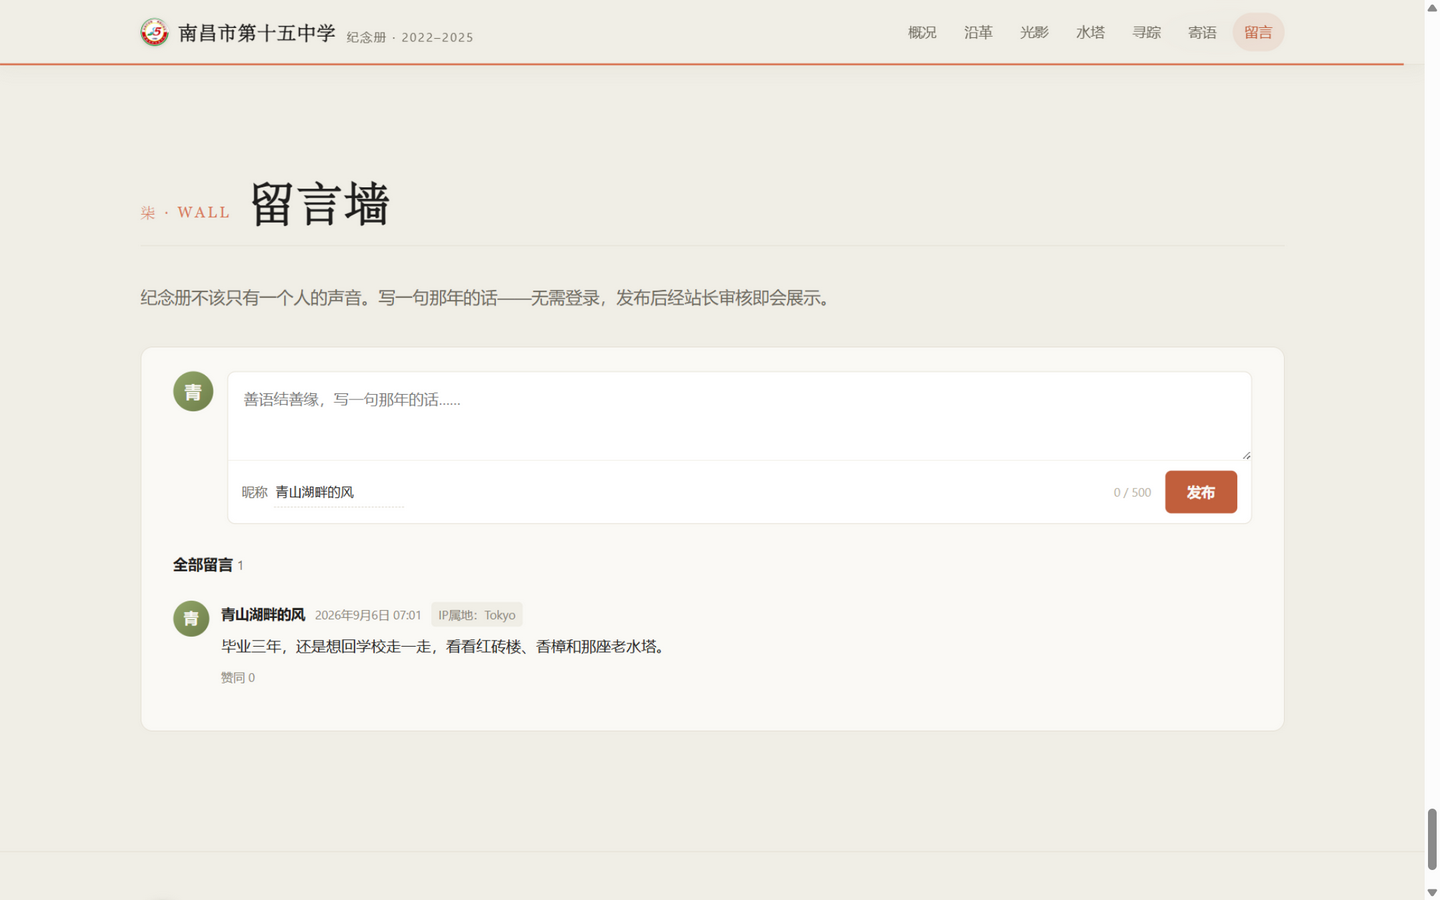
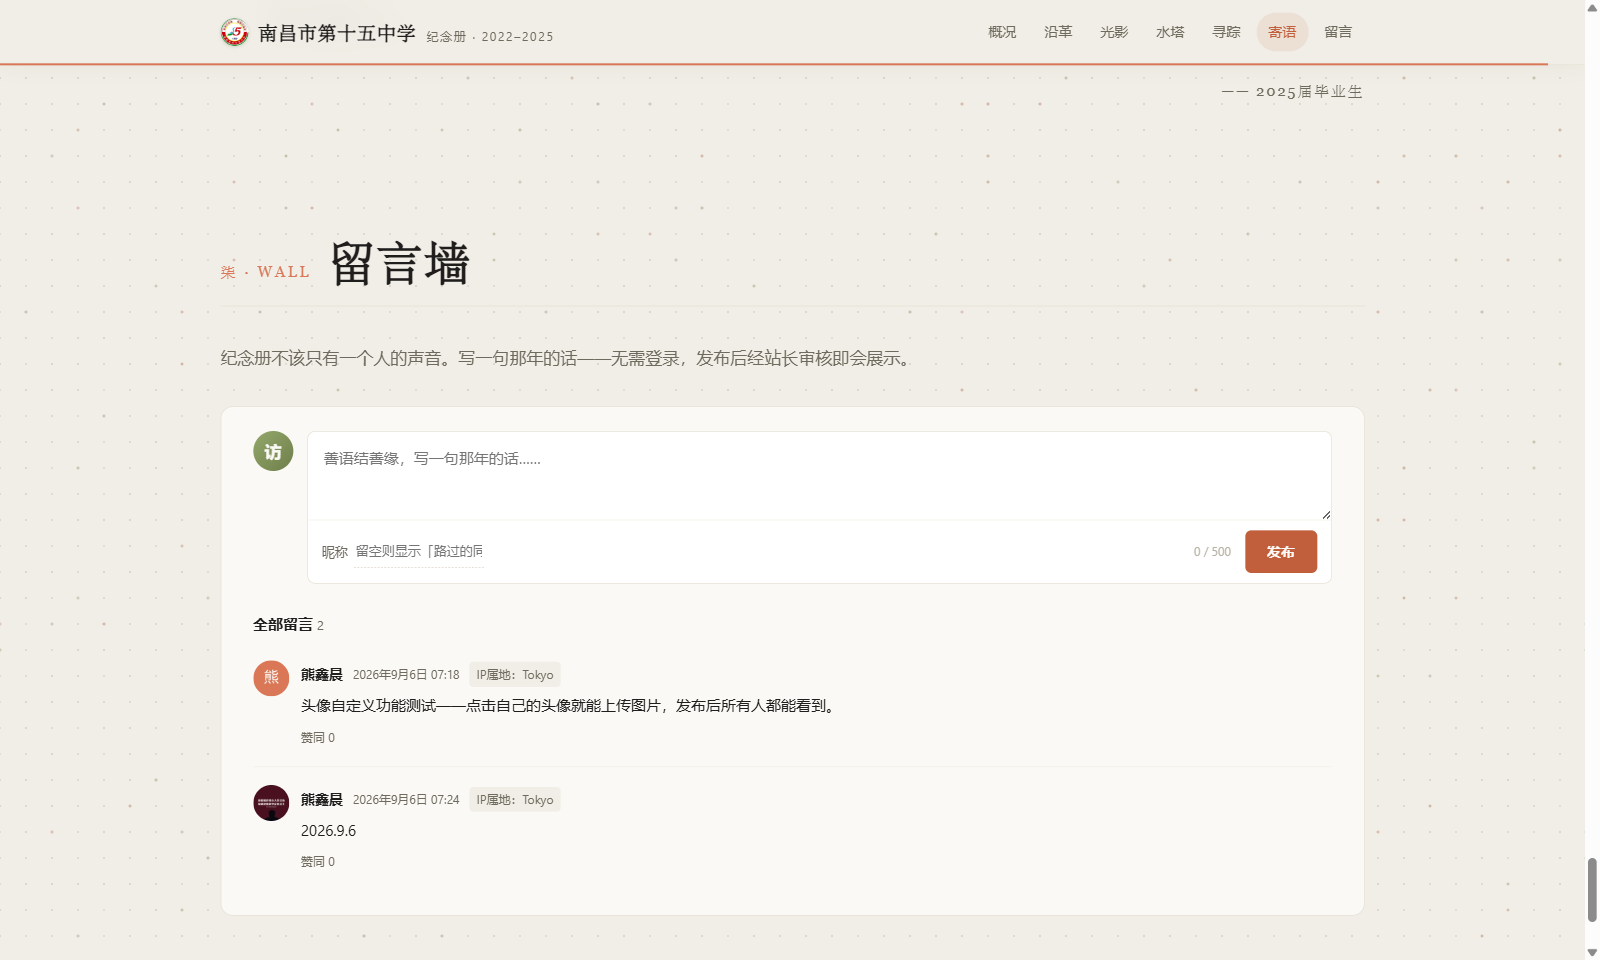
update: fix: 🐛 回到顶部锚点修复（#topbar fixed 定位不可滚，改 #top 锚点）+ 点阵纸纹内容优先淡入（load 后起画）+ 移动端顶栏 brand flex:none 防压缩溢出 + 移动端点阵降密 34px + 触屏隆起反馈 + tour 圆点样式修复（CSS 选择器失配）+ 灯箱键盘与漫游隔离 + footer z-index；资源版本 20260907

diff --git a/assets/main.js b/assets/main.js
@@ -205,7 +205,9 @@
 
   /* ---------- 点阵纸纹（全站背景，方案二 · Ledger Dots） ----------
      研究来源：React Bits DotField（点阵+光标隆起+速度追踪）+ Uiverse 呼吸律
-     隐喻：方格稿纸底纹，光标掠过处如抚过纸面；8% 赤陶/橄榄"注记点" */
+     隐喻：方格稿纸底纹，光标掠过处如抚过纸面；8% 赤陶/橄榄"注记点"
+     时序：内容先呈现——页面 load（或 2.2s 兜底）后画布才淡入起画；
+     手机端：间距放宽降密度，resize 仅在宽度变化时重建（地址栏伸缩不重建） */
   (function () {
     if (reduceMotion) return;
     var cv = document.getElementById('dustCanvas');
@@ -214,23 +216,31 @@
     var DPR = Math.min(window.devicePixelRatio || 1, 2);
     var W = 0, H = 0;
 
-    var SPACING = 26;                 /* 点间距 26px：纸感宜疏 */
+    var MOBILE = function () {
+      return (window.matchMedia && window.matchMedia('(hover: none)').matches) || window.innerWidth < 640;
+    };
     var INK = '31,30,29', TERRA = '150,72,45', OLIVE = '96,112,66';
     var CURSOR_R = 280, CURSOR_F = .055;   /* 大半径小力度（律令 4） */
     var cols = 0, rows = 0, dots = [];
     var mouse = { x: -9999, y: -9999, px: -9999, py: -9999, speed: 0 };
+    var lastW = -1, lastS = 0;
 
     function size() {
       W = window.innerWidth; H = window.innerHeight;
       cv.width = Math.round(W * DPR); cv.height = Math.round(H * DPR);
       ctx.setTransform(DPR, 0, 0, DPR, 0, 0);
-      cols = Math.ceil(W / SPACING) + 1; rows = Math.ceil(H / SPACING) + 1;
+      var sp = MOBILE() ? 34 : 26;        /* 点间距：纸感宜疏，小屏更疏降密度 */
+      /* 行数多铺 160px 余量：手机地址栏收起视口变高时底部不留空带 */
+      var nCols = Math.ceil(W / sp) + 1, nRows = Math.ceil((H + 160) / sp) + 1;
+      if (W === lastW && sp === lastS) return;   /* 手机地址栏伸缩只改高度，不重建点阵 */
+      lastW = W; lastS = sp;
+      cols = nCols; rows = nRows;
       dots = [];
       for (var r = 0; r < rows; r++) {
         for (var c = 0; c < cols; c++) {
           var special = Math.random() < .08;   /* 注记点：方格稿纸上的墨点 */
           dots.push({
-            bx: c * SPACING, by: r * SPACING,
+            bx: c * sp, by: r * sp,
             r: special ? 1.4 : .9,
             c: special ? (Math.random() < .5 ? TERRA : OLIVE) : INK,
             base: special ? .34 : .15,
@@ -240,8 +250,6 @@
         }
       }
     }
-    size();
-    window.addEventListener('resize', size);
 
     window.addEventListener('mousemove', function (ev) {
       mouse.px = mouse.x; mouse.py = mouse.y;
@@ -250,6 +258,19 @@
       var sp = Math.sqrt(dx * dx + dy * dy);
       mouse.speed = mouse.speed * .8 + sp * .2;   /* 快抚幅度更大 */
     }, { passive: true });
+    /* 触屏同步：手指划过同样隆起，抬手复位 */
+    window.addEventListener('touchmove', function (ev) {
+      var t = ev.touches[0];
+      if (!t) return;
+      mouse.px = mouse.x; mouse.py = mouse.y;
+      mouse.x = t.clientX; mouse.y = t.clientY;
+      var dx = t.clientX - mouse.px, dy = t.clientY - mouse.py;
+      var sp = Math.sqrt(dx * dx + dy * dy);
+      mouse.speed = mouse.speed * .8 + sp * .2;
+    }, { passive: true });
+    function touchReset() { mouse.x = -9999; mouse.y = -9999; mouse.speed = 0; }
+    window.addEventListener('touchend', touchReset, { passive: true });
+    window.addEventListener('touchcancel', touchReset, { passive: true });
     document.addEventListener('mouseleave', function () { mouse.x = -9999; mouse.y = -9999; mouse.speed = 0; });
 
     var raf3 = null, t0 = null;
@@ -277,10 +298,36 @@
       mouse.speed *= .92;                        /* 速度自然衰减 */
       raf3 = requestAnimationFrame(frame);
     }
-    function start() { if (!raf3) raf3 = requestAnimationFrame(frame); }
+    function start() {
+      if (raf3) return;
+      size();
+      raf3 = requestAnimationFrame(frame);
+      cv.classList.add('on');                    /* 1.2s CSS 淡入 */
+    }
     function stop() { if (raf3) { cancelAnimationFrame(raf3); raf3 = null; } }
-    document.addEventListener('visibilitychange', function () { document.hidden ? stop() : start(); });
-    start();
+
+    /* 内容优先：load 后再起画（load 卡住则 DOMContentLoaded+2.2s 兜底） */
+    var begun = false;
+    function begin() {
+      if (begun) return;
+      begun = true;
+      setTimeout(start, 250);                    /* 缓一拍，让首屏内容先落定 */
+    }
+    if (document.readyState === 'complete') begin();
+    else {
+      window.addEventListener('load', begin);
+      var kicked = false;
+      function domKick() {
+        if (kicked) return;
+        kicked = true;
+        setTimeout(begin, 2200);
+      }
+      if (document.readyState === 'interactive') domKick();
+      else document.addEventListener('DOMContentLoaded', domKick);
+    }
+
+    window.addEventListener('resize', function () { if (raf3) size(); });
+    document.addEventListener('visibilitychange', function () { document.hidden ? stop() : (begun && start()); });
   })();
 
   /* ---------- 灯箱 ---------- */

diff --git a/assets/style.css b/assets/style.css
@@ -61,7 +61,7 @@ p{text-wrap:pretty}
   max-width:1200px;margin:0 auto;padding:0 28px;
   height:64px;display:flex;align-items:center;justify-content:space-between;gap:16px;
 }
-.brand{display:flex;align-items:center;gap:10px;white-space:nowrap}
+.brand{display:flex;align-items:center;gap:10px;white-space:nowrap;flex:none}
 .brand img{width:28px;height:28px;border-radius:50%;box-shadow:0 1px 4px rgba(31,30,29,.18)}
 .brand b{font-family:var(--serif);font-weight:700;font-size:19px;letter-spacing:.04em}
 .brand span{font-size:12px;color:var(--muted);letter-spacing:.14em;align-self:end;padding-bottom:2px}
@@ -140,7 +140,10 @@ nav.toc a.active{color:var(--terra-deep);background:rgba(217,119,87,.12)}
 /* ============ Oryzo 式电影感层 ============ */
 /* 点阵纸纹：z-1 垫在内容之下、米白底之上，像稿纸底纹；内容主体提到 z-2 盖住卡片区点阵 */
 main{position:relative;z-index:2}
-#dustCanvas{position:fixed;inset:0;pointer-events:none;z-index:1}
+/* #top：页顶零高锚点（回到顶部用），抵消 scroll-padding 的 76px */
+#top{position:absolute;top:0;left:0;width:0;height:0}
+#dustCanvas{position:fixed;inset:0;pointer-events:none;z-index:1;opacity:0;transition:opacity 1.2s ease .15s}
+#dustCanvas.on{opacity:1}
 @media (prefers-reduced-motion: reduce){#dustCanvas{display:none}}
 
 /* 1) 章节大标题渐显上浮（惯性缓动，挂在现有 .reveal 上加深一层） */
@@ -309,7 +312,7 @@ section.block{max-width:1200px;margin:0 auto;padding:96px 28px 30px}
 .words .sign b{font-family:var(--serif);font-size:17px;color:var(--ink);letter-spacing:.08em}
 
 /* ============ 页脚 ============ */
-footer{border-top:1px solid var(--line);margin-top:90px}
+footer{border-top:1px solid var(--line);margin-top:90px;position:relative;z-index:2}
 .footer-inner{
   max-width:1200px;margin:0 auto;padding:48px 28px 60px;
   display:flex;justify-content:space-between;align-items:flex-end;gap:20px;flex-wrap:wrap;
@@ -393,8 +396,9 @@ body.lb-lock{overflow:hidden}
 .tour-viewer .arr:hover{background:rgba(193,95,60,.85);border-color:transparent}
 .tour-viewer .arr.prev{left:22px}.tour-viewer .arr.next{right:22px}
 .tour-dots{display:flex;gap:9px;justify-content:center;margin:16px 0 30px}
-.tour-dots i{width:7px;height:7px;border-radius:50%;background:#CFC8B8;cursor:pointer;transition:all .25s}
-.tour-dots i.on{background:var(--terra-deep);width:22px;border-radius:99px}
+.tour-dots button{appearance:none;border:none;padding:0;width:7px;height:7px;border-radius:50%;background:#CFC8B8;cursor:pointer;transition:all .25s}
+.tour-dots button:hover{background:#B9B2A0}
+.tour-dots button.on{background:var(--terra-deep);width:22px;border-radius:99px}
 
 .mm-head{display:flex;align-items:baseline;gap:12px;margin:4px 0 10px}
 .mm-head b{font-family:var(--serif);font-size:17px;color:var(--ink)}
@@ -489,7 +493,10 @@ body.lb-lock{overflow:hidden}
   .lb-hint{display:none}
 }
 @media (max-width:640px){
-  .topbar-inner{padding:0 18px}
+  .topbar-inner{padding:0 18px;gap:12px}
+  .brand{gap:8px}
+  .brand img{width:24px;height:24px}
+  .brand b{font-size:16px}
   .brand span{display:none}
   .hero{padding-top:120px}
   section.block{padding:72px 18px 20px}
@@ -501,6 +508,8 @@ body.lb-lock{overflow:hidden}
   .lb-stage{padding:0 10px}
   .lb-nav{width:44px;height:44px}
   .tour-viewer{height:380px}
+  .group-head{flex-wrap:wrap;row-gap:2px}
+  .group-head .g-note{flex:1 1 100%;text-align:left;margin-left:0}
   .tour-viewer .cap{left:18px;bottom:16px;right:18px}
   .tour-viewer .cap .t{font-size:21px}
   .tour-viewer .arr{width:42px;height:42px}

diff --git a/index.html b/index.html
@@ -17,8 +17,8 @@
 <meta name="twitter:card" content="summary_large_image">
 <link rel="icon" type="image/png" href="images/emblem-64.png">
 <link rel="apple-touch-icon" href="images/emblem-180.png">
-<link rel="stylesheet" href="maplibre/maplibre-gl.css?v=20260906c">
-<link rel="stylesheet" href="assets/style.css?v=20260906c">
+<link rel="stylesheet" href="maplibre/maplibre-gl.css?v=20260907">
+<link rel="stylesheet" href="assets/style.css?v=20260907">
 <link rel="preload" as="image" href="images/full/18-plaza-summer.jpg" fetchpriority="high">
 <script type="application/ld+json">
 {
@@ -54,10 +54,10 @@ window.addEventListener('DOMContentLoaded', function () {
     if (entries.some(function (e) { return e.isIntersecting; })) {
       io.disconnect();
       var s = document.createElement('script');
-      s.src = 'maplibre/maplibre-gl.js?v=20260906c';
+      s.src = 'maplibre/maplibre-gl.js?v=20260907';
       s.onload = function () {
         var m = document.createElement('script');
-        m.src = 'assets/map.js?v=20260906c';
+        m.src = 'assets/map.js?v=20260907';
         document.body.appendChild(m);
       };
       document.body.appendChild(s);
@@ -68,6 +68,7 @@ window.addEventListener('DOMContentLoaded', function () {
 </script>
 </head>
 <body>
+<span id="top" aria-hidden="true"></span>
 <a class="skip-link" href="#main">跳到正文</a>
 <canvas id="dustCanvas" aria-hidden="true"></canvas>
 
@@ -471,7 +472,7 @@ window.addEventListener('DOMContentLoaded', function () {
     <div class="right">
       <div class="f-coord">28.7208° N, 115.9322° E · 青山湖畔</div>
       <div>xxc2007.me · 2026</div>
-      <div><a href="#topbar">回到顶部 ↑</a></div>
+      <div><a href="#top">回到顶部 ↑</a></div>
     </div>
   </div>
 </footer>
@@ -498,8 +499,8 @@ window.addEventListener('DOMContentLoaded', function () {
   </div>
 </div>
 
-<script src="assets/main.js?v=20260906c" defer></script>
-<script src="assets/wall.js?v=20260906c" defer></script>
+<script src="assets/main.js?v=20260907" defer></script>
+<script src="assets/wall.js?v=20260907" defer></script>
 <!-- 定位图（map.js）由 head 内的惰性初始化器在滚动临近时按需加载 maplibre-gl.js -->
 </body>
 </html>

diff --git a/assets/map.js b/assets/map.js
@@ -69,6 +69,7 @@
   if (prevBtn) prevBtn.addEventListener('click', function () { go(cur - 1); });
   if (nextBtn) nextBtn.addEventListener('click', function () { go(cur + 1); });
   document.addEventListener('keydown', function (ev) {
+    if (document.body.classList.contains('lb-lock')) return;   /* 灯箱开启时让位 */
     var tag = (ev.target && ev.target.tagName) || '';
     if (tag === 'TEXTAREA' || tag === 'INPUT' || (ev.target && ev.target.isContentEditable)) return;
     if (ev.key === 'ArrowLeft') go(cur - 1);

diff --git a/README.md b/README.md
@@ -9,27 +9,30 @@
 [![Live Site](https://img.shields.io/badge/🌐_线上访问-xxc2007.me-D97757)](https://xxc2007.me)
 [![License](https://img.shields.io/badge/License-MIT-green.svg)](LICENSE)
 [![Vanilla JS](https://img.shields.io/badge/依赖-Vanilla_JS-orange)](#-技术栈)
-[![Self-hosted](https://img.shields.io/badge/留言墙-Artalk_自托管-blueviolet)](#留言墙)
+[![Self-hosted](https://img.shields.io/badge/留言墙-Artalk_自托管-blueviolet)](#留言墙artalk-自托管)
 
 <br>
 
-**一座校园的私人纪念册——把三年光阴放进一个可以随时回去的地址。**
+**把三年光阴放进一个可以随时回去的地址。**
 
 <br>
 
-这是南昌市第十五中学的纪念页：**27 张校园实景摄影**、一段**可点击机位的时光漫游 + 中文定位图（MapLibre GL）**、一面**无需登录的匿名留言墙**，以及一整套为阅读体验打磨的动态交互——阅读进度条、章节导航高亮、数字滚动、时间线生长、可缩放平移的灯箱。
+这是南昌市第十五中学的纪念页：**27 张校园实景摄影**、一段**八个机位的时光漫游**、一张**中文定位图**、一面**无需登录的匿名留言墙**，以及一层铺满全站的**点阵纸纹**——光标抚过处，稿纸底纹轻轻隆起，像手指抚过一页旧纸。
 
 纯 HTML / CSS / Vanilla JS，结构·样式·行为三分离（`index.html` + `assets/`），零框架、无构建步骤。克隆下来，起个静态服务器就能打开。
 
-[在线访问](https://xxc2007.me) · [站点结构](#-站点结构) · [特色](#-特色) · [技术栈](#-技术栈) · [本地运行](#-本地运行)
+[在线访问](https://xxc2007.me) · [特色](#-特色) · [站点结构](#-站点结构) · [技术栈](#-技术栈) · [本地运行](#-本地运行) · [设计笔记](#-设计笔记)
 
 </div>
 
 ---
 
 <p align="center">
-  <img src="docs/screenshot-hero.png" alt="首屏：校徽、衬线大标题与滚动的关键数字" width="100%">
+  <img src="docs/screenshot-hero.png" alt="首屏：校徽、衬线大标题、点阵纸纹与关键数字" width="100%">
 </p>
+<p align="center"><sub>
+  ▲ 首屏 · 米白纸感 + 赤陶橙 + 衬线大标题 · 背景是全站点阵纸纹（光标掠过会隆起）
+</sub></p>
 
 ---
 
@@ -37,20 +40,36 @@
 
 ### 📖 纪念册本体
 
-- **七个章节**：学校概况 → 沿革纪要 → 校园光影（25 张摄影，六个专题组）→ 一座水塔的记忆法 → 校园寻踪 → 寄语 → 留言墙
-- Claude 视觉语言：米白纸感底色 + 赤陶橙强调 + 衬线标题，全站统一的发丝线与圆角卡片
+- **七个章节**：概况 → 沿革 → 光影（25 张摄影，六个专题组）→ 水塔 → 寻踪 → 寄语 → 留言墙
+- Claude 视觉语言：米白纸感底色 `#F0EEE6` + 赤陶橙 `#D97757` + 衬线标题，全站统一的发丝线与圆角卡片
 - 完整响应式（三档断点）与 `prefers-reduced-motion` 降级
 
-### 🗺 校园寻踪（时光漫游 + MapLibre 定位图）
+### ✨ 点阵纸纹（全站粒子背景）
 
-- 学校精确定位至 OSM way `260420791`（青山湖校区，28.7208°N, 115.9322°E）
-- **全幅照片漫游**：8 个机位、8 张全幅照片，箭头/圆点/键盘方向键切换，Ken Burns 缓推镜头
+- 26px 方格点阵铺满全站：墨色微点为底，约 8% 混入赤陶 / 橄榄「注记点」，像一页方格稿纸
+- 光标 280px 范围内点阵柔和隆起，快抚幅度更大——「指尖抚过纸面」的手感
+- 每颗点独立呼吸相位，永不同步明灭；`prefers-reduced-motion` 时整层安静
+- Canvas 2D 单画布实现，零依赖，DPR 封顶 2，页面隐藏即停帧
+
+### 🗺 校园寻踪（时光漫游 + 定位图）
+
+- **全幅照片漫游**：8 个机位、8 张全幅照片，箭头 / 圆点 / 键盘方向键切换，Ken Burns 缓推镜头
 - **中文定位图**：OSM 栅格底图（含中文地名），8 个机位标记与漫游联动，点击标记镜头飞至该位置
-- 滚动临近地图区才按需加载 MapLibre，首屏零地图开销；机位数据集中在 `assets/map.js` 的 `SPOTS` 数组，一眼可改
+- 滚动临近才按需加载 MapLibre，首屏零地图开销；机位数据集中在 `assets/map.js` 的 `SPOTS` 数组，一眼可改
 
 <p align="center">
-  <img src="docs/screenshot-map.png" alt="校园寻踪：3D 卫星视角下的八个机位标记" width="86%">
+  <img src="docs/screenshot-tour.png" alt="时光漫游：八个机位的全幅照片漫游，Ken Burns 镜头" width="86%">
 </p>
+<p align="center"><sub>
+  ▲ 伍 · MAP 时光漫游 · 老水塔机位 · 底部渐影字幕与 5/8 计数
+</sub></p>
+
+<p align="center">
+  <img src="docs/screenshot-map.png" alt="中文定位图：OSM 底图与八个机位标记" width="86%">
+</p>
+<p align="center"><sub>
+  ▲ 中文定位图 · 点击标记，漫游镜头飞至该位置 · 学校定位至 OSM way 260420791
+</sub></p>
 
 ### 💬 留言墙（Artalk 自托管）
 
@@ -59,20 +78,24 @@
 - 零第三方依赖：Artalk 服务端跑在自己的服务器上，数据是自己的
 
 <p align="center">
-  <img src="docs/screenshot-guestbook.png" alt="留言墙：B站风格匿名评论区（头像 / IP属地 / 北京时间）" width="86%">
+  <img src="docs/screenshot-guestbook.png" alt="留言墙：B站风格匿名评论区与点阵纸纹背景" width="86%">
 </p>
+<p align="center"><sub>
+  ▲ 柒 · WALL 留言墙 · 匿名留言 · 头像 / IP 属地 / 北京时间 · 背景点阵纸纹清晰可见
+</sub></p>
 
 ### 🎬 动态交互（原生 JS，零依赖）
 
 | 交互 | 说明 |
 |------|------|
+| 点阵纸纹 | 全站 canvas 粒子层：方格稿纸底纹，光标隆起 + 呼吸相位交错（研究 50 个动效站后定稿） |
 | 阅读进度条 | 顶栏赤陶橙细线，`scaleX` 随滚动增长 |
 | 导航高亮 | scrollspy 自动点亮当前章节 |
 | 数字滚动 | 首屏关键数字 0 → 1958 / 51 / 2600+ / 25，easeOutQuart |
-| 大图视差 | 首图以 0.5× 速率反向移动，`scale(1.09)` 防露边 |
+| 大图视差 | 首图以 0.5× 速率反向移动 + 光标惯性视差，`scale(1.09)` 防露边 |
+| 惯性平滑滚动 | 桌面滚轮接管为惯性插值（Oryzo 手感），触屏 / 地图 / 灯箱不劫持 |
 | 时间线生长 | 沿革竖线随滚动画下，经过的年份节点依次点亮 |
-| 灯箱 | 滚轮以光标为中心缩放 1–4×、双击放大、拖拽平移、双指捏合、边界钳制，与滑动翻页手势互斥 |
-| 光尘氛围 | 全站 canvas 光尘粒子随呼吸明灭，鼠标柔和斥力；留言墙另有「暗河流沙」流场粒子 |
+| 灯箱 | 滚轮以光标为中心缩放 1–4×、双击放大、拖拽平移、双指捏合、边界钳制 |
 | 画廊渐显与微倾 | 图片加载后柔和渐显；桌面端卡片随光标 3D 微倾 |
 
 所有动画共用一个 rAF 驱动的滚动循环，并在系统开启「减弱动态效果」时整体降级。
@@ -84,7 +107,7 @@ site/
 ├── index.html          # 页面结构（语义 HTML，无内联样式/脚本）
 ├── assets/
 │   ├── style.css       # 全站样式（设计令牌 + 组件 + 响应式 + 降级）
-│   ├── main.js         # 主交互：进度条/scrollspy/视差/惯性滚动/粒子/灯箱
+│   ├── main.js         # 主交互：点阵纸纹/进度条/scrollspy/视差/惯性滚动/灯箱
 │   ├── map.js          # 时光漫游 + 定位图（MapLibre，按需加载）
 │   └── wall.js         # 留言墙（对接自托管 Artalk）
 ├── images/
@@ -100,7 +123,8 @@ site/
 | 层 | 选型 |
 |------|------|
 | 前端 | 纯 HTML / CSS / Vanilla JS，结构·样式·行为三分离，零框架无构建 |
-| 地图 | [MapLibre GL](https://maplibre.org) v5 + Esri 卫星影像 + AWS 3D 地形 |
+| 粒子背景 | Canvas 2D 单画布点阵系统（React Bits DotField 路线，自研实现） |
+| 地图 | [MapLibre GL](https://maplibre.org) v5 + OSM 栅格底图（自托管，不依赖 CDN） |
 | 留言 | [Artalk](https://artalk.js.org) v2.10 自托管 + SQLite |
 | 服务 | nginx 反向代理 `/comment/` → systemd 常驻 |
 | 部署 | Azure VM · Cloudflare DNS · Let's Encrypt |
@@ -116,6 +140,12 @@ python -m http.server 8000   # 或任意静态服务器；浏览器打开 http:/
 ```
 
 > 留言墙依赖自托管的 Artalk 服务（`/comment/`），本地打开时该区域会提示加载失败，其余功能完整可用。直接双击 `index.html`（file://）也可浏览，仅定位图瓦片与留言墙需要网络。
+
+## 📝 设计笔记
+
+- **视觉方向**：Claude / Anthropic 视觉语言（米白纸感 + 赤陶橙 + 衬线），由站长在项目之初指定，此后所有迭代都在这个方向上生长。
+- **点阵纸纹的由来**：动效重设计前，先深度研究了 50 个动效网站的实现（React Bits 56 个背景组件逐一源码分类、Aceternity UI 全部背景特效、Uiverse、Anime.js v4、Awwwards Motion 画廊），沉淀出「亮背景上粒子要么暗而疏、要么暖而虚」等十条设计律令，再出三方案对比（香樟光斑 / 点阵纸纹 / 时光流星），最终选定最贴纸感的「点阵纸纹」。
+- **一处细节**：点阵在照片卡片之下（`main` 提到 z-2），只在页边距与卡片间隙透出——背景动效永远让位于内容。
 
 ## 📄 License
 
